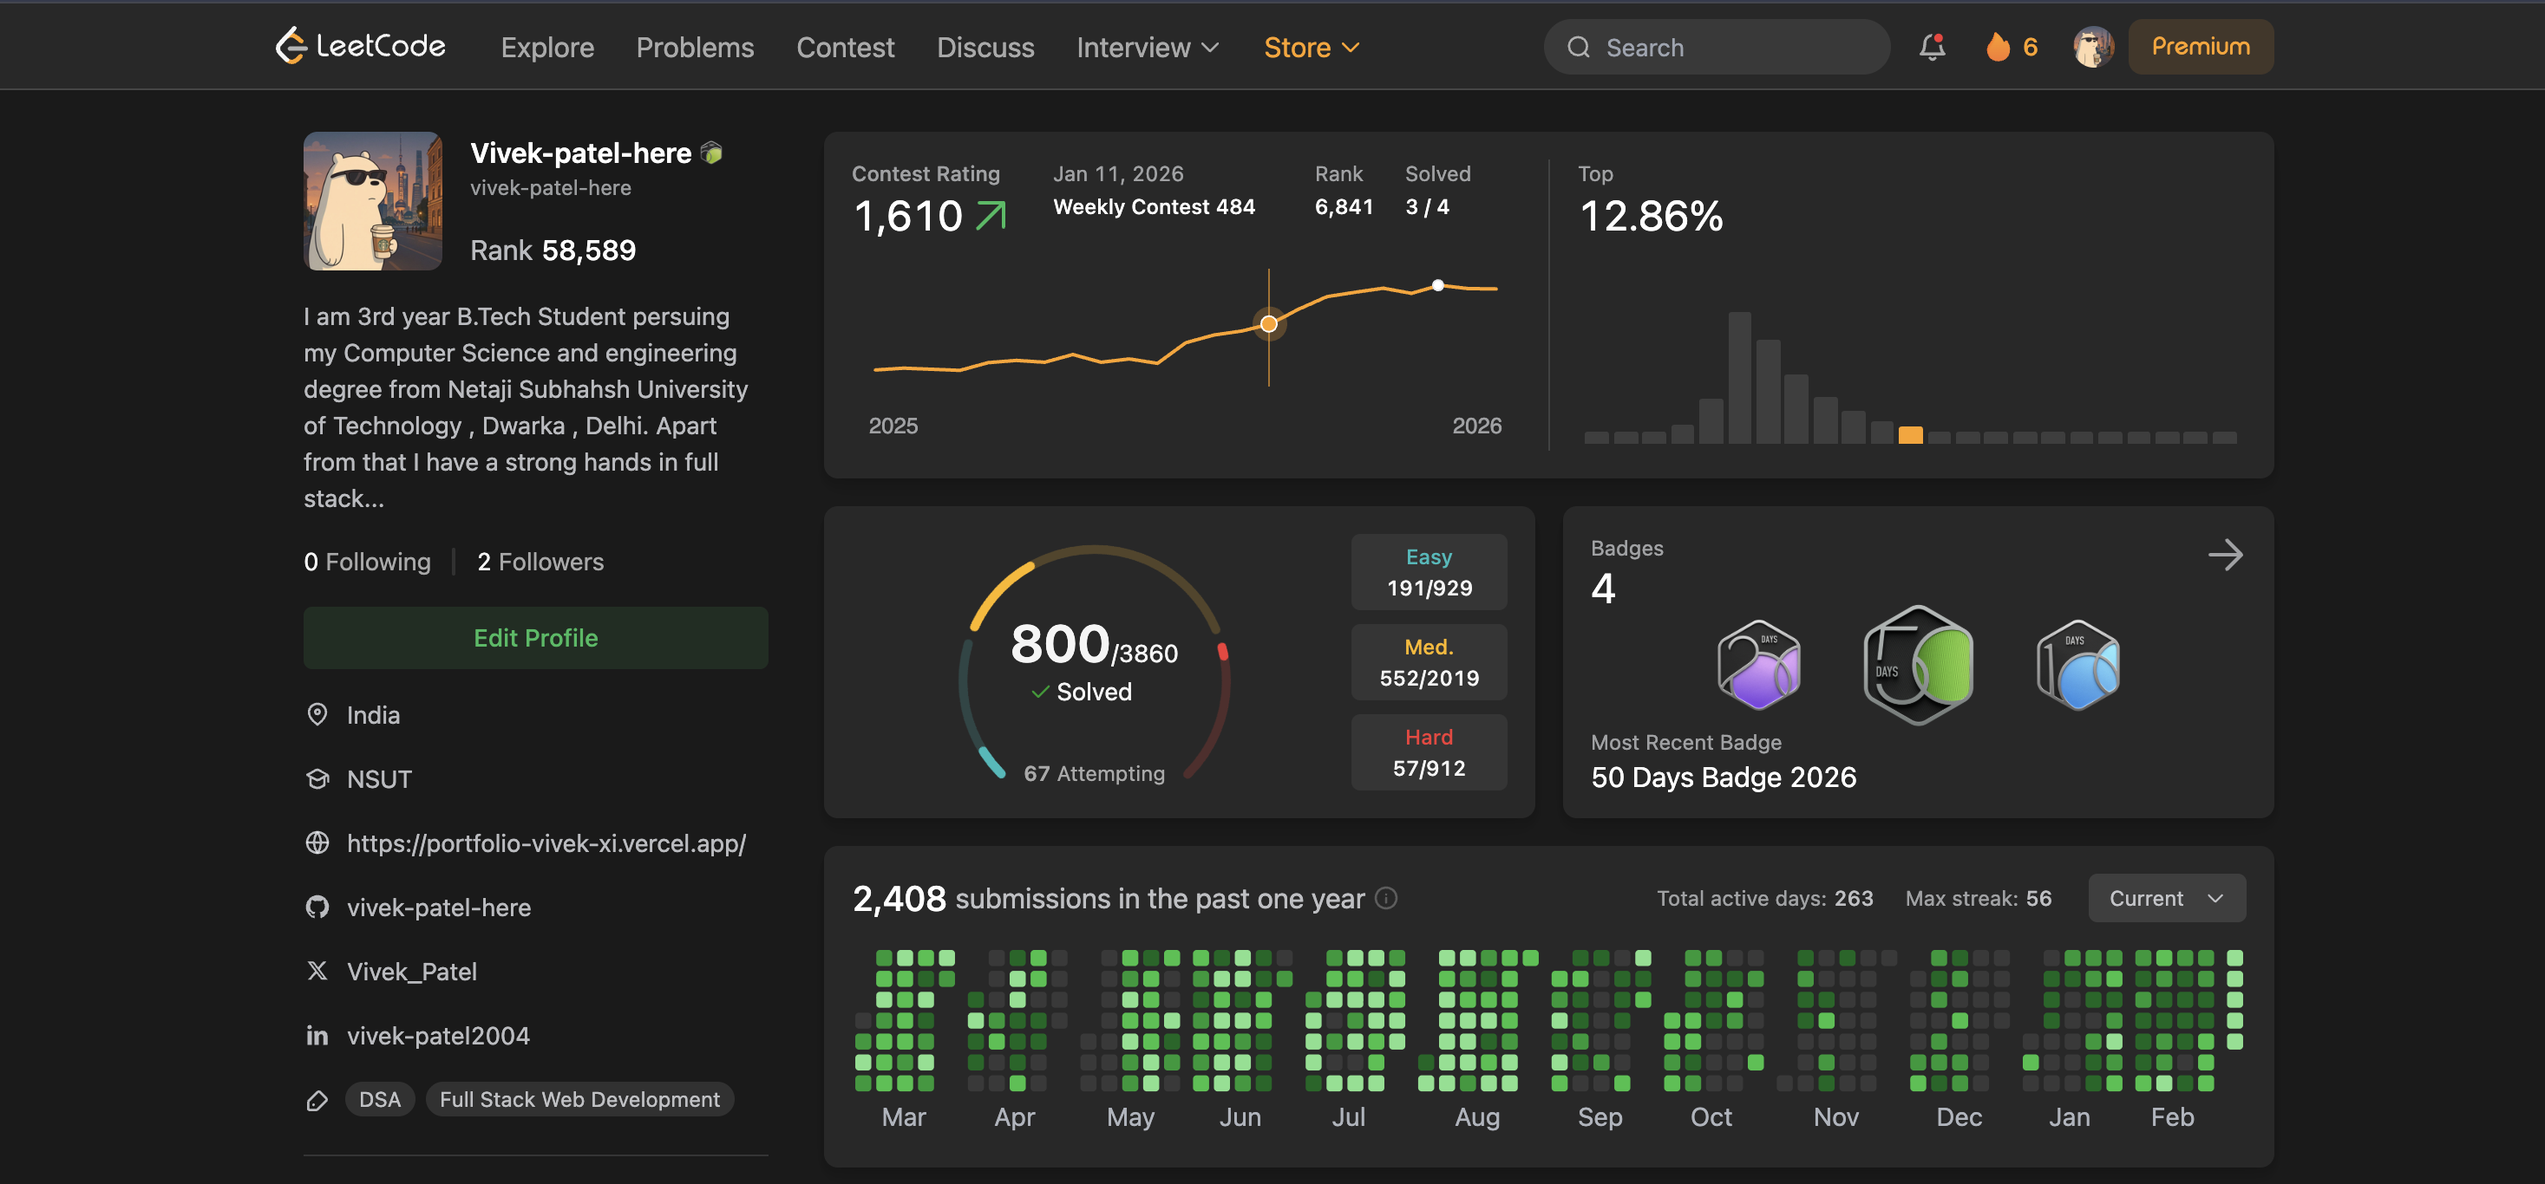
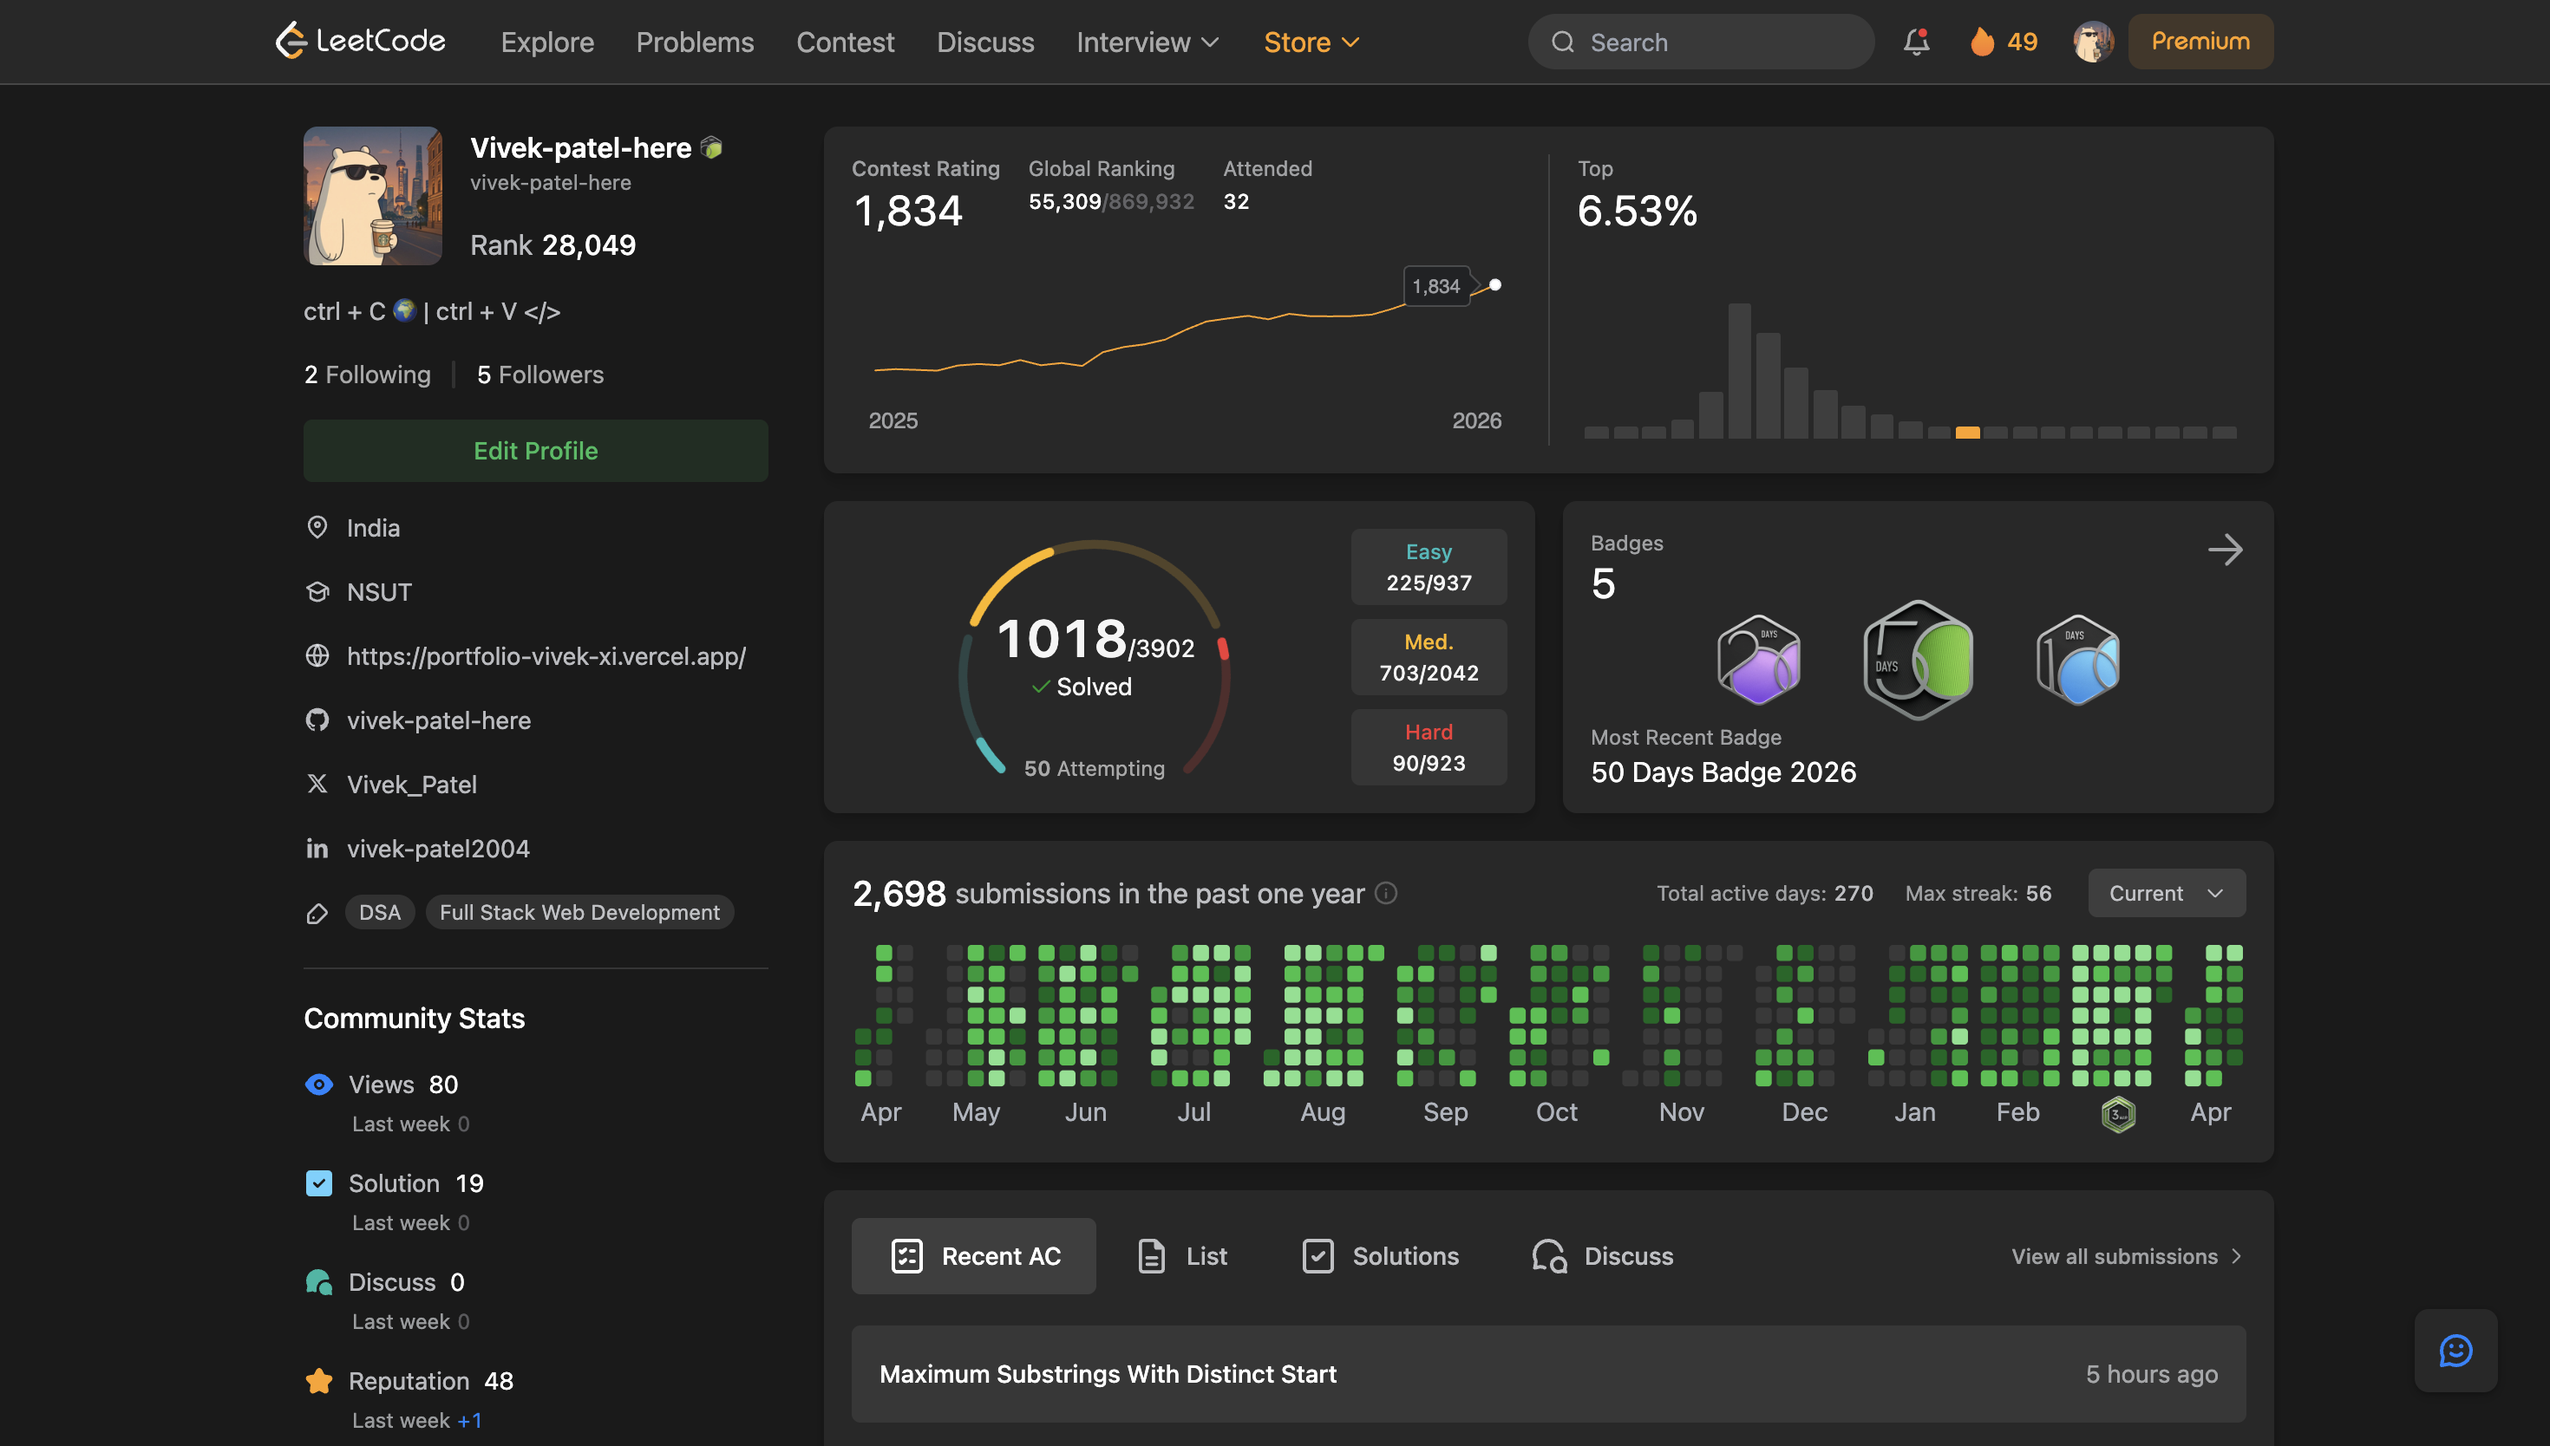
updated LC

diff --git a/components/DSA/page.tsx b/components/DSA/page.tsx
@@ -4,15 +4,15 @@ import {ArrowUpRight,ArrowRight} from "lucide-react"
 
 function DSA() {
 return (
-        <div className='h-fit lg:h-screen w-screen bg-light flex flex-col gap-10 items-center justify-between py-10'>
+        <div className='h-screen w-screen bg-light  flex flex-col gap-10 items-center justify-between py-10'>
             <div className='flex items-center gap-2 bg-white py-1 px-3 rounded-full'>
                 <div className='h-2 w-2 bg-black rounded-full'></div>
                 <p>Leetcode</p>
             </div>
 
             <h1 className='text-dark text-5xl'>Problem Solving</h1>
-            <div className='h-8/10 w-full  flex items-center justify-center gap-10  flex-col px-10'>
-                <img src="/LC.png" className=' lg:h-8/10 rounded-xl flex items-center justify-around border '/>
+            <div className='h-8/10 w-8/10 flex items-center justify-center gap-10  flex-col px-10'>
+                <img src="/LC.png" className='h-9/10 w-9/10 rounded-xl flex items-center justify-around border '/>
                 <a href='https://leetcode.com/u/vivek-patel-here/' target="_blank"  className='flex w-fit h-fit items-center gap-2'>
                     <p className='text-secondary text-sm'>Check out</p>
                     <p className='text-sm cursor-pointer hover:underline'>My Leetcode Account</p>

diff --git a/components/Hero/page.tsx b/components/Hero/page.tsx
@@ -78,13 +78,13 @@ function Hero() {
                 <div className='flex-1 h-full  flex flex-col items-center justify-around'>
                     <div className='w-full md:pl-15 flex items-center  justify-left h-fit gap-3'>
                         <div className='flex w-1/3 flex-col gap-2  '>
-                            <h1 className='text-3xl md:text-5xl  text-dark'>+<CountUp end={800} /></h1>
+                            <h1 className='text-3xl md:text-5xl  text-dark'>+<CountUp end={1000} /></h1>
                             <p className='text-secondary text-xs '>LeetCode Problems Solved</p>
                         </div>
 
                         <div className='flex w-1/3 flex-col gap-2  '>
-                            <h1 className='text-3xl md:text-5xl  text-dark'>+<CountUp end={5} /></h1>
-                            <p className='text-secondary text-xs '>Hackathons participated</p>
+                            <h1 className='text-3xl md:text-5xl  text-dark'>+<CountUp end={1800} /></h1>
+                            <p className='text-secondary text-xs '>contest Rating</p>
                         </div>
                     </div>
                     <div className=' h-4/10 w-full md:pl-5 flex flex-col items-center justify-center' ref={ref3}>

diff --git a/components/Contact/page.tsx b/components/Contact/page.tsx
@@ -4,7 +4,7 @@ import React from 'react'
 function Contact() {
   return (
     <div className='w-screen h-100 flex justify-center items-center bg-light bg-[url(/lamborghini.jpeg)] bg-cover bg-center '>
-        <div className='w-full h-full bg-overlay flex flex-col items-center justify-center gap-4'>
+        <div className='w-full h-full bg-black/70 flex flex-col items-center justify-center gap-4'>
             <h1 className='text-light text-4xl text-center lg:text-6xl font-semibold'>Got a Vision? Let's Bring it to Life!</h1>
             <p className='text-light w-8/10 lg:w-1/2 text-center'>I'm always excited to collaborate on new and innovative projects. Whether you're starting from scratch or refining an existing idea.</p>
             <p className='text-2xl text-center text-secondary'>Feel free to reach out through the contact details below.</p>
